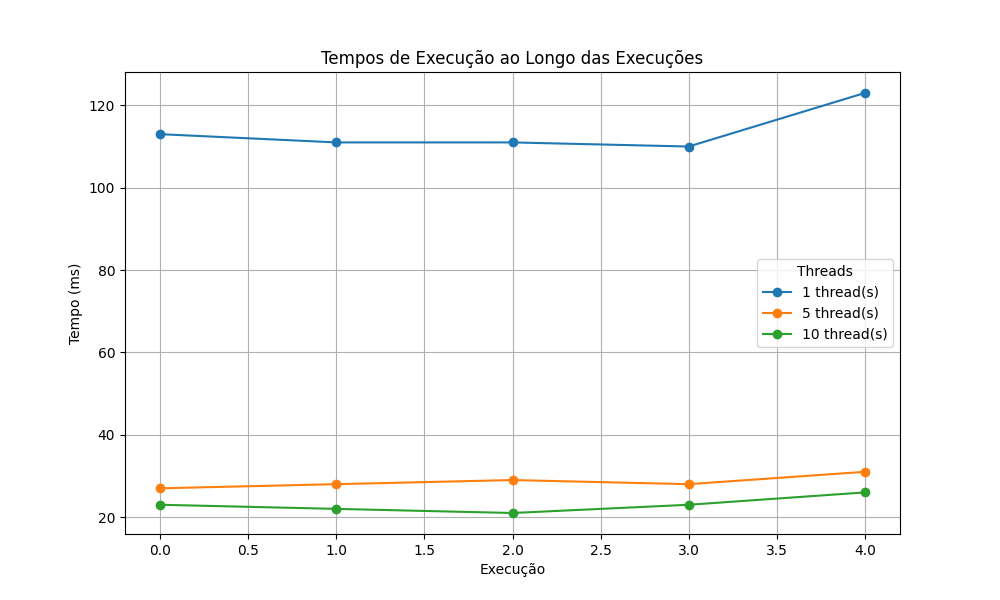
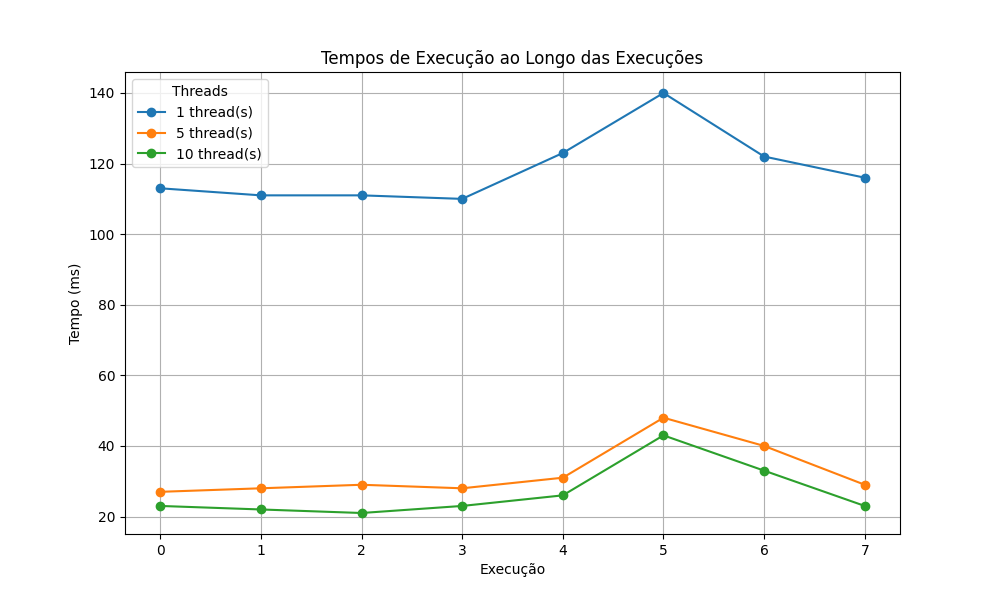
Feat: README

diff --git a/README.md b/README.md
@@ -1,1 +1,102 @@
-##RELATÓRIO
+# Análise de Desempenho: Verificação de Números Primos com Threads
+
+Este projeto implementa um programa em Java para verificar números primos em um arquivo de entrada, utilizando múltiplas threads para processamento concorrente. O objetivo é comparar o desempenho das versões com 1, 5 e 10 threads, medindo os tempos de execução e analisando a escalabilidade do programa.
+
+---
+
+## Estrutura do Projeto
+
+- **Entrada01.txt**: Arquivo de entrada contendo números a serem verificados.
+- **primes_1.txt**: Arquivo de saída com números primos encontrados usando 1 thread.
+- **primes_5.txt**: Arquivo de saída com números primos encontrados usando 5 threads.
+- **primes_10.txt**: Arquivo de saída com números primos encontrados usando 10 threads.
+- **execution_times.txt**: Arquivo com os tempos de execução registrados.
+- **grafico_execucao.png**: Gráfico comparativo dos tempos de execução.
+- **plot_execution_times.py**: Script Python para gerar o gráfico comparativo.
+- **PrimeFinder.java**: Código fonte do programa Java.
+
+---
+
+## Como Executar o Projeto
+
+### Pré-requisitos
+- Java Development Kit (JDK) instalado.
+- Python 3 instalado (para gerar o gráfico).
+- Biblioteca `matplotlib` instalada (para o script Python).
+
+### Passos para Execução
+
+1. **Compile o programa Java**:
+   ```bash
+   javac PrimeFinder.java
+   ```
+
+2. **Execute o programa Java**:
+   ```bash
+   java PrimeFinder
+   ```
+
+   O programa gerará os arquivos `primes_1.txt`, `primes_5.txt`, `primes_10.txt` e `execution_times.txt`.
+
+3. **Execute o script Python para gerar o gráfico**:
+   ```bash
+   python plot_execution_times.py
+   ```
+
+   O script lerá os dados do arquivo `execution_times.txt` e salvará o gráfico comparativo como `grafico_execucao.png`.
+
+4. **Visualize o gráfico**:
+   Abra o arquivo `grafico_execucao.png` para visualizar o gráfico comparativo dos tempos de execução.
+
+---
+
+## Estratégia de Implementação
+
+### Leitura dos Dados
+- O programa lê números de um arquivo de texto (`Entrada01.txt`), onde cada linha contém um número a ser verificado.
+- Os números são armazenados em uma lista juntamente com seus índices para preservar a ordem original.
+
+### Verificação de Números Primos
+- A verificação de números primos é realizada pelo método `isPrime`, que utiliza um algoritmo simples:
+  - Verifica se o número é menor ou igual a 1 (não primo).
+  - Verifica divisibilidade por 2 e por números ímpares até a raiz quadrada do número.
+
+### Processamento Concorrente
+- O programa utiliza a interface `Callable` e a classe `ExecutorService` para dividir o trabalho entre múltiplas threads.
+- O arquivo de entrada é dividido em "chunks" (partes), e cada thread processa um chunk independentemente.
+- Foram testadas versões com 1, 5 e 10 threads para avaliar o impacto do paralelismo no desempenho.
+
+### Armazenamento dos Resultados
+- Os números primos encontrados são armazenados em arquivos separados (`primes_1.txt`, `primes_5.txt`, `primes_10.txt`).
+- Os tempos de execução são registrados no arquivo `execution_times.txt`, que preserva o histórico de execuções.
+
+---
+
+## Resultados
+
+### Tempos de Execução Observados
+Os tempos de execução foram medidos para as versões com 1, 5 e 10 threads. Abaixo estão os resultados observados em milissegundos (ms), dos 4 primeiros  testes:
+
+| Execução | 1 Thread (ms)| 5 Threads (ms)| 10 Threads (ms) |
+|----------|--------------|---------------|-----------------|
+| 1        | 113          | 27            | 23              |
+| 2        | 111          | 28            | 22              |
+| 3        | 111          | 29            | 21              |
+| 4        | 110          | 28            | 23              |
+
+### Gráfico Comparativo
+O gráfico abaixo compara os tempos de execução das versões com 1, 5 e 10 threads ao longo de várias execuções:
+
+![Gráfico de Execução](grafico_execucao.png)
+
+---
+
+## Conclusão
+
+A implementação do programa demonstrou que o uso de múltiplas threads pode melhorar significativamente o desempenho na verificação de números primos. No entanto, o ganho de desempenho não é linear em relação ao número de threads, pois o overhead de gerenciamento de threads começa a impactar a eficiência.
+
+### Recomendações
+- Para arquivos de entrada pequenos, o uso de 1 thread pode ser suficiente.
+- Para arquivos maiores, o uso de 5 threads oferece um bom equilíbrio entre desempenho e complexidade.
+- O uso de 10 threads pode ser justificado em cenários com grande volume de dados, mas o ganho de desempenho deve ser avaliado em relação ao custo adicional de recursos.
+
